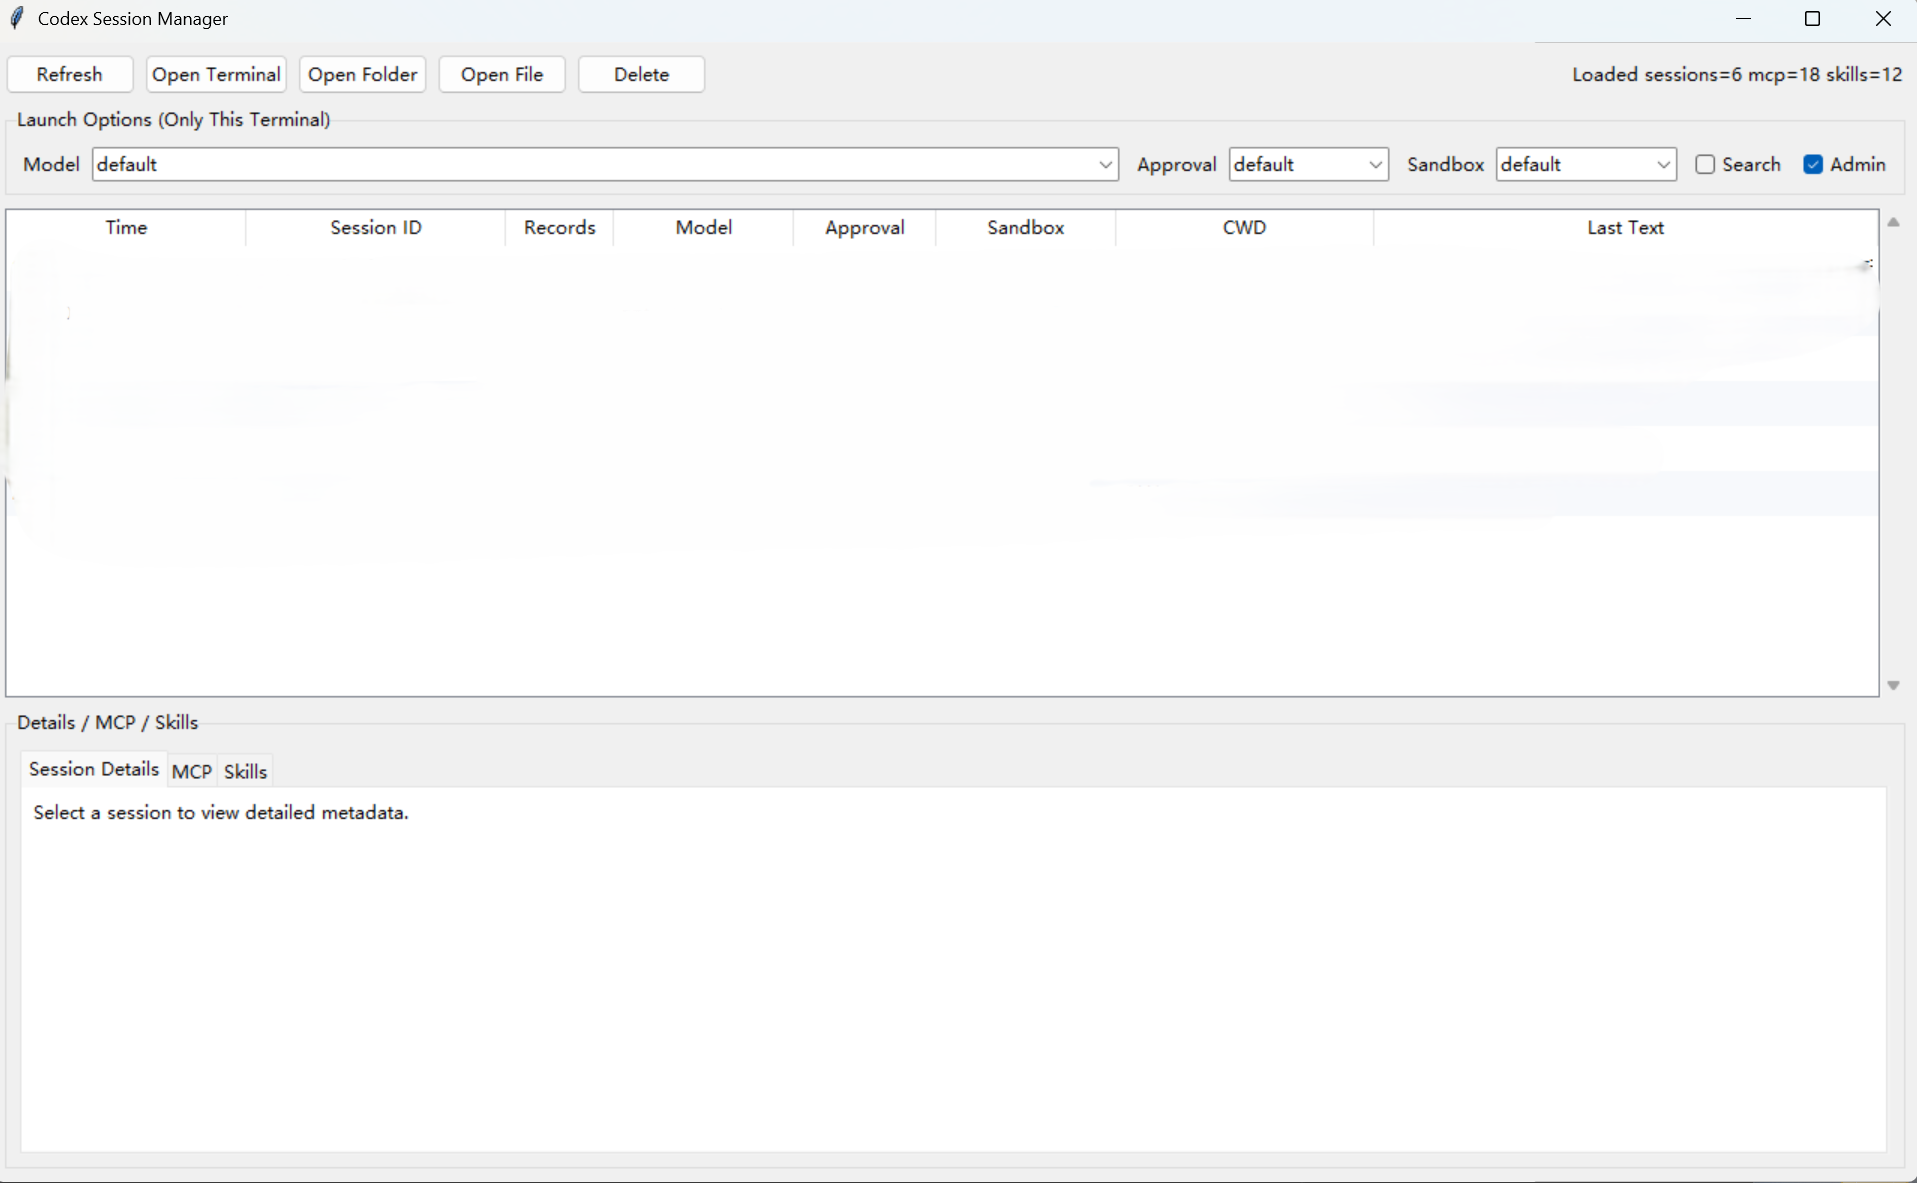
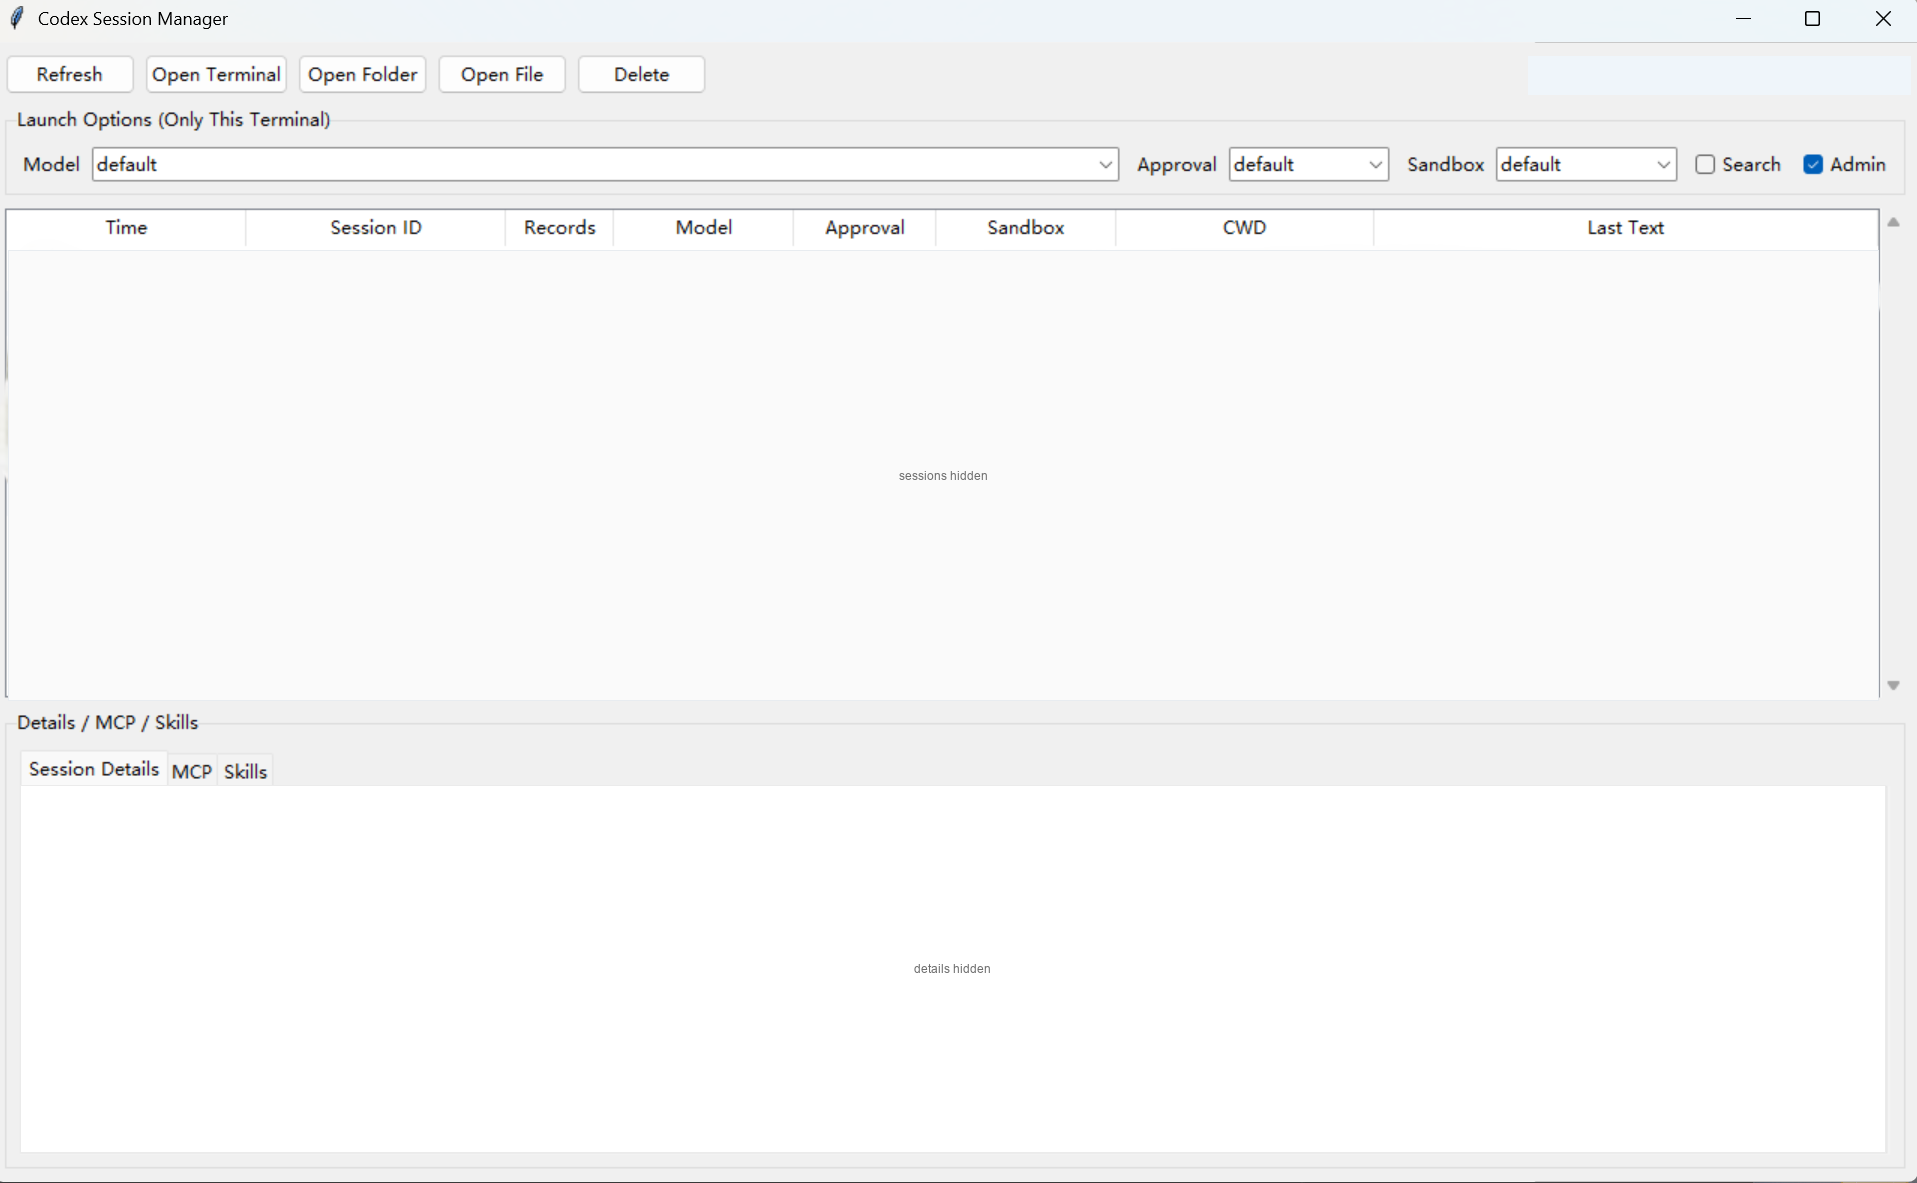
Add redacted public screenshots

Changed region(s): [[0.0, 0.6695, 0.2154, 0.6999], [0.831, 0.0609, 0.9849, 0.0913]]

diff --git a/README.md b/README.md
@@ -14,6 +14,10 @@ Codex+ 是一个面向 Windows 的 Codex 会话管理工具。它把本机 Codex
 
 ![桌面端概览](assets/ui-overview.png)
 
+账号与后端配置：
+
+![账号与后端配置](assets/account-backend-redacted.png)
+
 ## 核心功能
 
 - 桌面端浏览、搜索和继续本机 Codex 会话。